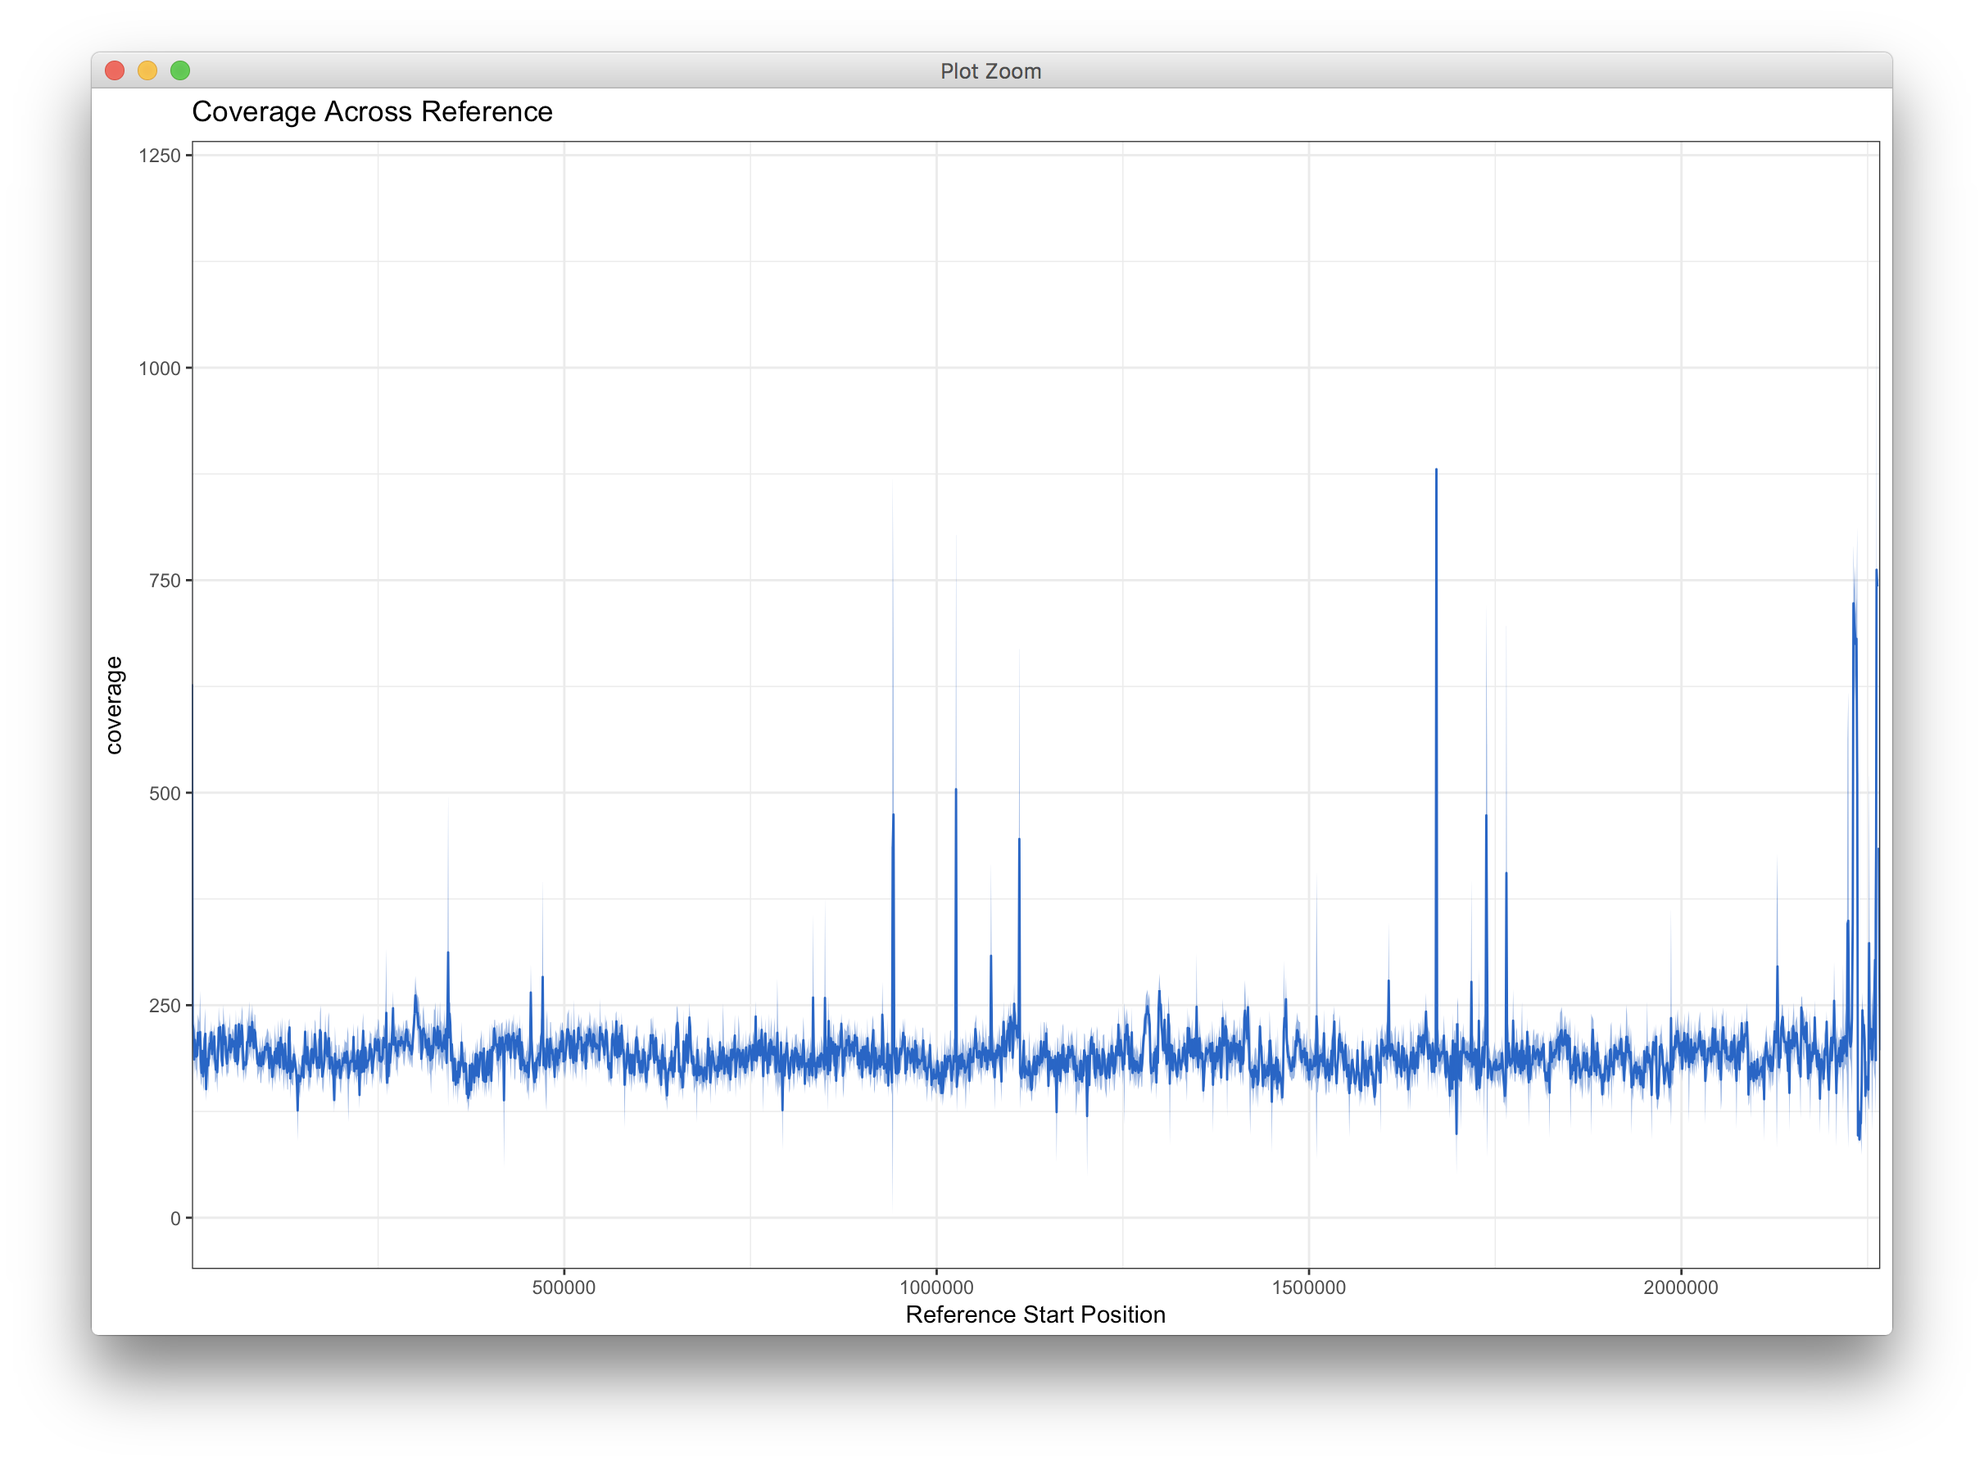
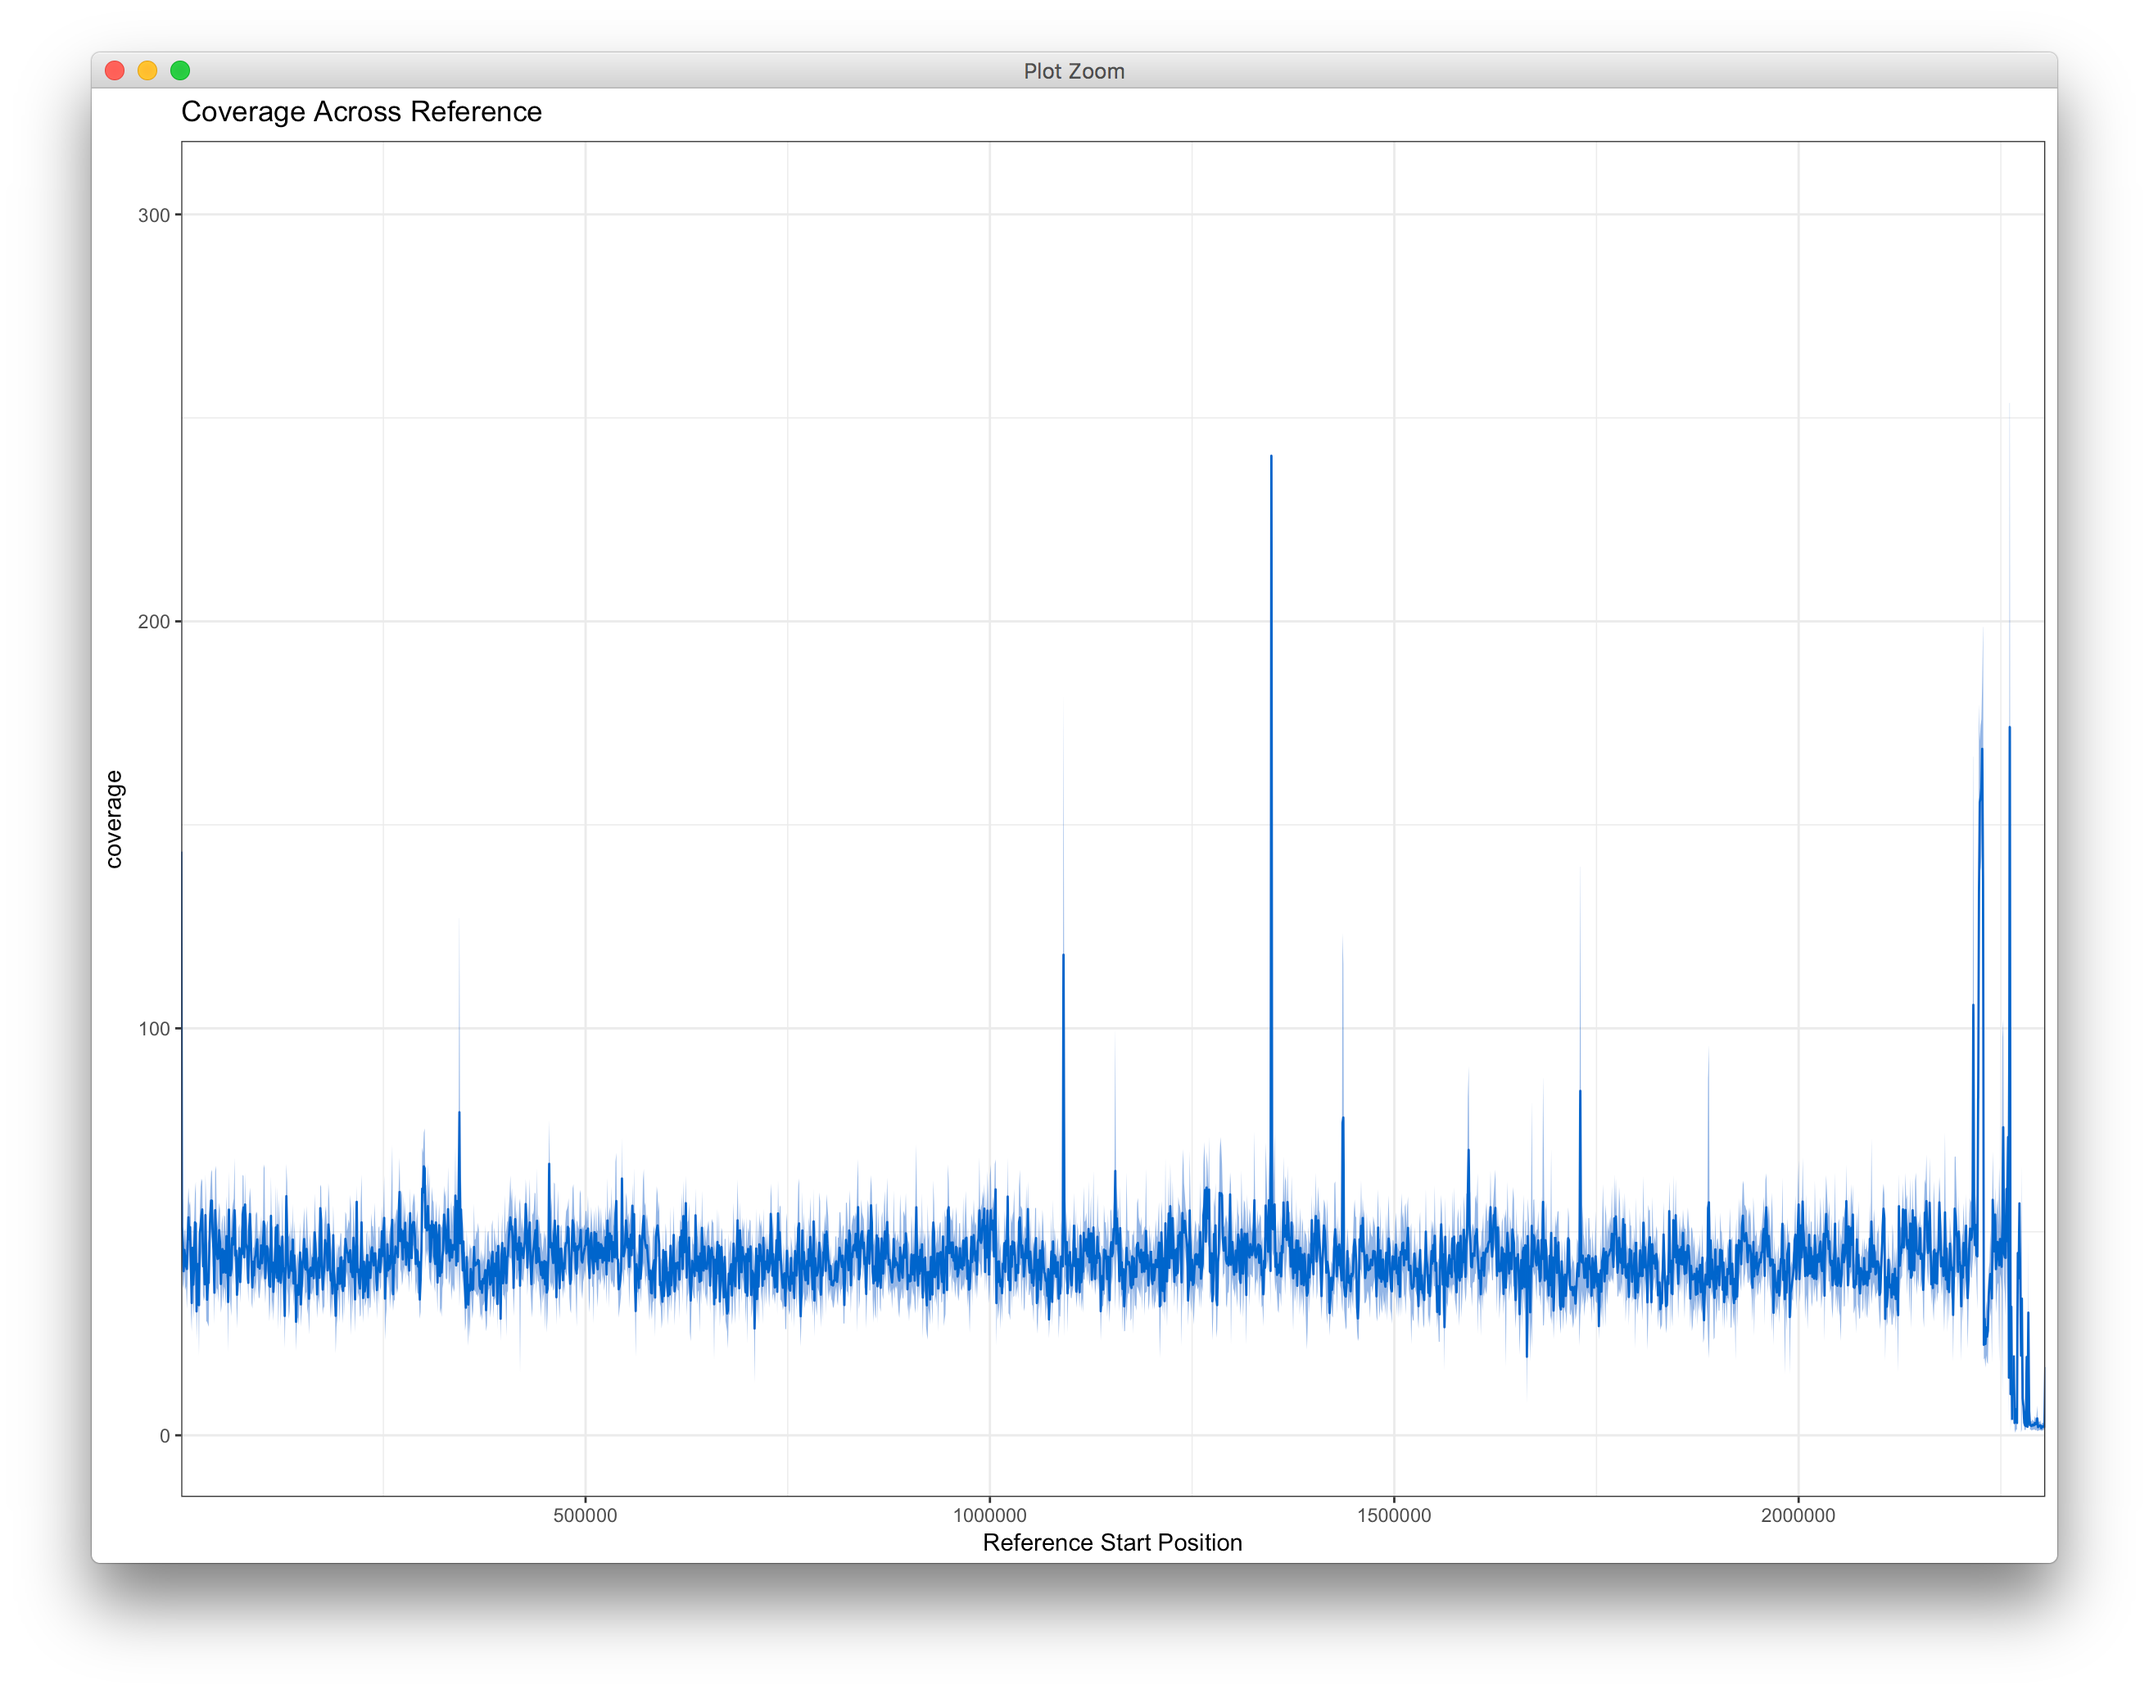
fix values

Changed region(s): [[0.031, 0.0307, 0.96, 0.9218]]

diff --git a/dia2/Dia2_Assembly.md b/dia2/Dia2_Assembly.md
@@ -377,7 +377,7 @@ Ahora estamos listos para graficar!, para eso solo copia este feo pero útil có
 	  
 Esto dará como resultado el siguiente gráfico que puedes guardar en la pestaña Export en el cuadro de la derecha de Rstudio:
 ![](../images/coverage_denovo.png)
-Como vemos, el coverage a lo largo del genoma es homogéneo salvo algunas zonas pequeñas, y de acuerdo a la definición de este, tenemos que nuestro genoma esta cubierto aproximadamente 190 veces, un muy buen resultado.
+Como vemos, el coverage a lo largo del genoma es homogéneo salvo algunas zonas pequeñas, y de acuerdo a la definición de este, tenemos que nuestro genoma esta cubierto aproximadamente 50 veces, un muy buen resultado.
 
 ## Paso 5: Anotación de ensambles
 El proceso de anotación de un genoma (o alguna secuencia), se refiere a localizar algún patron (o muchos), dentro de una secuencia y asignarle un significado cada una de esas secciones para ser interpretada por nosotros.
